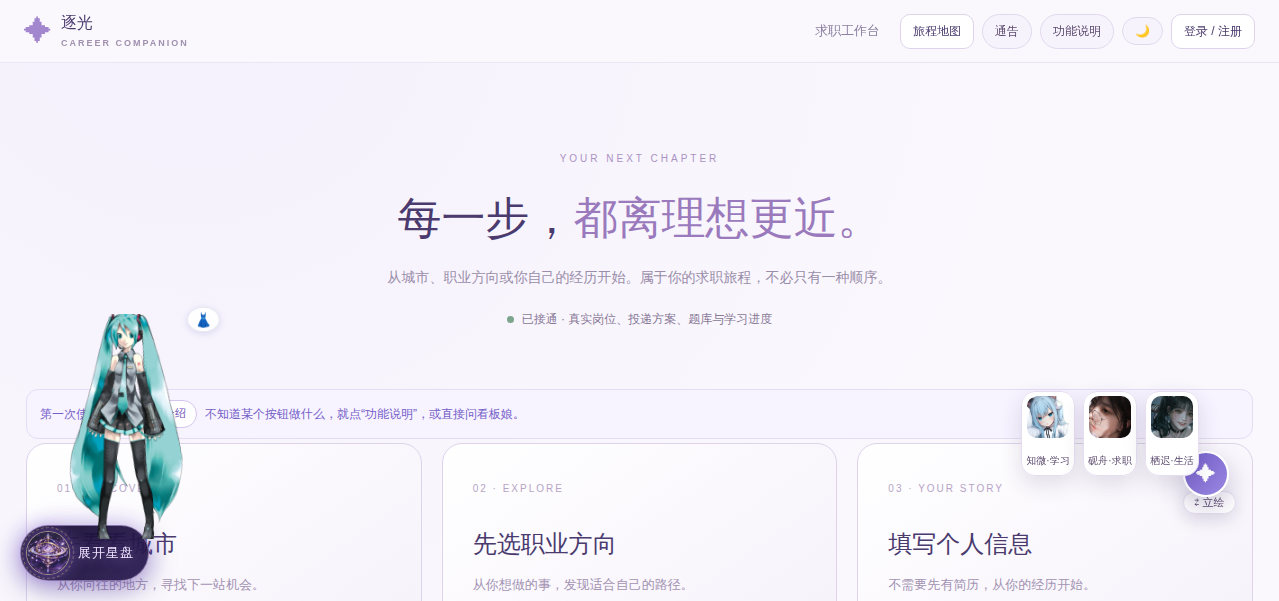
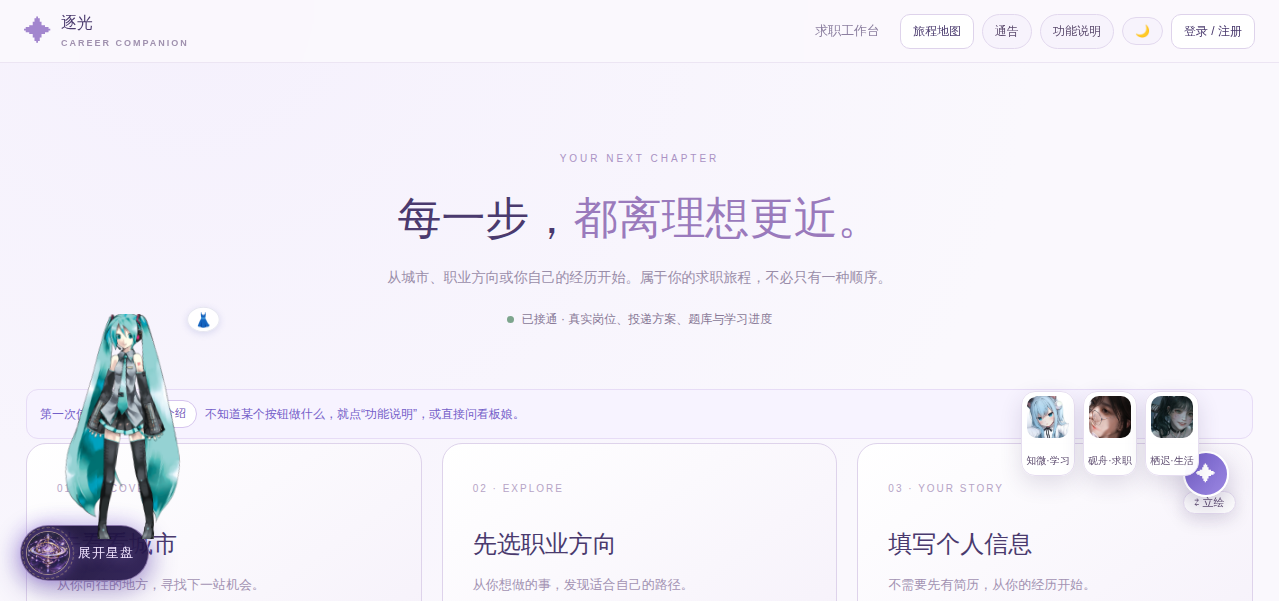
fix: 收细星盘连接，避免桥线压过星球
桥面宽度降到3.2px，连接基准线统一约1.2-2.6px；桥板/栏杆/链环同步减淡；移除星球底座框；资源版本提升到1.12.7。

Changed region(s): [[0.0305, 0.629, 0.1525, 0.8686], [0.061, 0.5391, 0.122, 0.599], [0.122, 0.6589, 0.1525, 0.7188]]

diff --git a/app/src/app.css b/app/src/app.css
@@ -2765,3 +2765,25 @@ html[data-theme="night"] .housing-rent select { color: #eaf2ff; }
 .star-link .bridge-panel{fill:rgba(188,220,255,.13);stroke:rgba(218,238,255,.5);stroke-width:.7;vector-effect:non-scaling-stroke}
 .star-link .bridge-panel:nth-of-type(2n){fill:rgba(155,192,255,.2)}
 .star-link.is-related .bridge-panel{fill:rgba(211,235,255,.3);stroke:rgba(255,246,210,.8);filter:drop-shadow(0 0 5px rgba(180,216,255,.75))}
+/* 连接粗细统一收细：连接是配景，不能压过星球 */
+.star-link .link-base{stroke-width:1.8!important;opacity:.78}
+.star-link.link-bridge .link-base{stroke-width:6!important;opacity:.28!important;filter:blur(2px)}
+.star-link.link-chain .link-base{stroke:transparent!important}
+.star-link.link-portal .link-base{stroke:transparent!important}
+.star-link.link-worldtree .link-base{stroke-width:1.7!important;opacity:.7}
+.star-link.link-rift .link-base{stroke-width:1.8!important;opacity:.72}
+.star-link.link-starlight .link-base{stroke-width:1.9!important;opacity:.78}
+.star-link.link-thread .link-base{stroke-width:1.2!important;opacity:.75}
+.star-link.link-rail .link-base{stroke-width:1.8!important;opacity:.75}
+.star-link .bridge-panel{fill:rgba(188,220,255,.07)!important;stroke:rgba(218,238,255,.25)!important;stroke-width:.35!important}
+.star-link .bridge-rail{stroke-width:.85!important;opacity:.55}
+.star-link .bridge-lamp{opacity:.55}
+.star-link .chain-link{stroke-width:1.45!important;opacity:.8}
+.star-link .link-energy{opacity:.75;r:1.8px}
+.star-link.is-related .link-base{stroke-width:2.6!important;opacity:1}
+.star-link.is-related.link-bridge .link-base{stroke-width:8!important;opacity:.62!important}
+.star-link.is-related .chain-link{stroke-width:1.8!important}
+.star-link.is-related .bridge-panel{fill:rgba(211,235,255,.17)!important;stroke:rgba(255,246,210,.5)!important}
+.star-link.link-bridge .link-base{stroke-width:3.2!important;opacity:.2!important}
+.star-link.is-related.link-bridge .link-base{stroke-width:4.5!important;opacity:.5!important}
+.star-link .bridge-panel{fill:rgba(188,220,255,.045)!important}

diff --git a/app/src/index.html b/app/src/index.html
@@ -5,14 +5,14 @@
     <meta name="viewport" content="width=device-width,initial-scale=1" />
     <meta name="color-scheme" content="light" />
     <title>逐光 · AI求职助手</title>
-    <link rel="stylesheet" href="/assets/app.css?v=1.12.6" />
+    <link rel="stylesheet" href="/assets/app.css?v=1.12.7" />
     <link rel="stylesheet" href="/assets/resume-studio.css" />
     <link rel="stylesheet" href="/assets/proto.css" />
     <link rel="stylesheet" href="/assets/proto-extra.css" />
-    <link rel="stylesheet" href="/assets/main.css?v=1.12.6" />
+    <link rel="stylesheet" href="/assets/main.css?v=1.12.7" />
   </head>
   <body>
     <div id="app"></div>
-    <script type="module" src="/assets/main.js?v=1.12.6"></script>
+    <script type="module" src="/assets/main.js?v=1.12.7"></script>
   </body>
 </html>

diff --git a/docs/MANUAL_TESTING.md b/docs/MANUAL_TESTING.md
@@ -100,7 +100,7 @@
 | 21 | 上传去重/撤销 | 上传 docs/manual-data/jobs-upload-sample.csv 两次；在“已上传的数据”或“上传记录”点“撤销上传” | 首次约5行；第二次替换旧行；两个入口都能撤销并删除数据 | 样例是虚构数据 |
 | 22 | 关闭按钮/圆盘 | 打开通告、登录弹窗；看板娘圆盘 | × 垂直水平居中；紫色圆盘 ✦ 居中 | 深色主题同样 |
 | 23 | 岗位投递意向筛选 | 岗位页点“加入投递意向”并保存；切换“已确认/未确认投递意向” | 卡片出现已确认/待保存徽标；已确认筛选只显示已保存岗位 | 未保存选择算未确认 |
-| 35 | 逐光星盘 3D 宇宙地图 | 点击“展开星盘”；悬停星球；点击任意星球；关闭 | 星盘入口是动态天体盘；18 颗星球无底座框，名称嵌在所属星球上；1279×601/1279×900 下无节点/标签重叠；右下角无连接形式图例；悬停星球/相关连线发光，中央出现大星球预览；中心 3D 天体盘自转，背景星尘闪烁并有流星；点击进入板块；二次打开图片走缓存 | 1279×900 / 1279×601 |
+| 35 | 逐光星盘 3D 宇宙地图 | 点击“展开星盘”；悬停星球；点击任意星球；关闭 | 星盘入口是动态天体盘；18 颗星球无底座框，名称嵌在所属星球上；连接粗细接近，桥不压过星球；1279×601/1279×900 下无节点/标签重叠；右下角无连接形式图例；悬停星球/相关连线发光，中央出现大星球预览；中心 3D 天体盘自转，背景星尘闪烁并有流星；点击进入板块；二次打开图片走缓存 | 1279×900 / 1279×601 |
 | 34 | 智能体自定义网页 | 对任一看板娘说“生成一个学习计划网页” | 弹出可最小化的独立网页窗口；报告页左上角无悬浮上传按钮；科目工具箱无 Agent 任务 | 真实 AI |
 | 33 | 讲题覆盖窗/刷新 | 在知微里让AI讲题/做3D；关掉覆盖窗后刷新学习页 | 画布覆盖页面，右上角 − 可最小化；刷新仍在原科目版本 | 覆盖窗 z-index 高 |
 | 32 | 对话 chip/输入/会话 | 问问AI填入长题；Shift+Enter；输入长文本；点新会话/会话；删除历史会话 | 输入框显示[题目]chip；换行不发送；输入框先变宽再增高；可新建/切换/删除会话并刷新保留 | 1279×900 |
